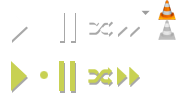
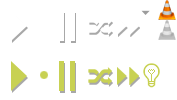
Added smart playlist feature

Changed region(s): [[0.791, 0.63, 0.904, 0.9]]

diff --git a/css/styles.css b/css/styles.css
@@ -28,6 +28,8 @@ footer, header, section { display:block; }
 .pause { width:40px; background-position:-48px 0; }
 .pause:hover { background-position:-48px -50px; }
 .random { width:26px; right:18px; position:absolute; top:0; background-position:-88px 0; }
+.smart { width:17px; right:60px; position:absolute; top:0; background-position:-160px -50px; }
+.smart:hover {background-position:-143px -50px; }
 .settings { width:26px; right:48px; position:absolute; top:0; background-position:-88px 0; }
 .random.enabled { background-position:-88px -50px; }
 .scrubBar { position:absolute; left:150px; right:150px; top:0; height:50px; background:url(images/scrub_bar.png) repeat-x; }
@@ -71,8 +73,8 @@ footer, header, section { display:block; }
 
 #secondaryList { left:298px; list-style-position:inside; counter-reset:track; }
 #secondaryList li { font:14px PetitaBold, 'Trebuchet MS', sans-serif; padding:5px; cursor:pointer; }
-#secondaryList li:hover { background:rgba(200, 209, 83, .5); }
 #secondaryList li:before { content:counter(track) ". "; counter-increment:track; }
+#secondaryList li:hover { background:rgba(200, 209, 83, .5); }
 #secondaryList li[song_id="all"]:before, #secondaryList li[song_id="back"]:before, #secondaryList li[song_id="disc"]:before, #secondaryList li.album:before, #secondaryList li.search:before { content:none; counter-reset:track; }
 #secondaryList li.search { padding-left:45px; }
 #secondaryList li.search strong { background:#ff0; }

diff --git a/js/dxmp.js b/js/dxmp.js
@@ -561,6 +561,23 @@
 		}
 	}
 	
+	music = {
+	
+		smartPlaylistClick:function(e) {
+			var song = playlist.getPlayingSong();
+			if (null != song) {
+				dx.call('dxmp', 'buildSmartPlaylist', { id:song.id }, function(data) {
+					if (data.body.length > 0) {
+						for (var i = 0, count = data.body.length; i < count; i++) {
+							playlist.queueSong(data.body[i]);
+						}
+					}
+				});
+			}
+		}
+	
+	},
+	
 	// Video related shit
 	video = {
 		
@@ -1042,6 +1059,7 @@
 		$playPause.click(playPauseClick);
 		$('#random').click(randomClick);
 		$('#next').click(nextClick);
+		$('#smartPlaylist').click(music.smartPlaylistClick);
 		$('#option').click(optionClick);
 		$('#options li').click(optionsClick);
 		$('body').delegate('#videoList .close', 'click', video.closeClick);

diff --git a/api/apis/api.dxmp.php b/api/apis/api.dxmp.php
@@ -42,6 +42,40 @@ class DXMP extends Content {
 		
 	}
 	
+	public static function buildSmartPlaylist($vars) {
+		
+		$retVal = false;
+		
+		$id = isset($vars['id']) && is_numeric($vars['id']) ? $vars['id'] : false;
+		if ($id) {
+			
+			$max = isset($vars['max']) && is_numeric($vars['max']) ? $vars['max'] : 25;
+			$tags = Content::getTags(array( 'id' => $id ));
+			if (count($tags) > 0) {
+				
+				$where = '';
+				foreach ($tags as $tag) {
+					$where .= ' OR tag_name = "' . $tag->name . '"';
+				}
+				$where = substr($where, 4, strlen($where));
+				
+				$query = 'SELECT content_id FROM tags WHERE (' . $where . ') AND content_id != ' . $id . ' GROUP BY content_id ORDER BY COUNT(1) + (RAND() * ' . (count($tags) * 2) . ') LIMIT ' . $max;
+				$result = db_Query($query);
+				if ($result->count > 0) {
+					$retVal = array();
+					while ($row = db_Fetch($result)) {
+						$retVal[] = $row->content_id;
+					}
+				}
+				
+			}
+			
+		}
+		
+		return $retVal;
+		
+	}
+	
 	/**
 	 * Registers a user in the cache so that commands may be sent
 	 */
